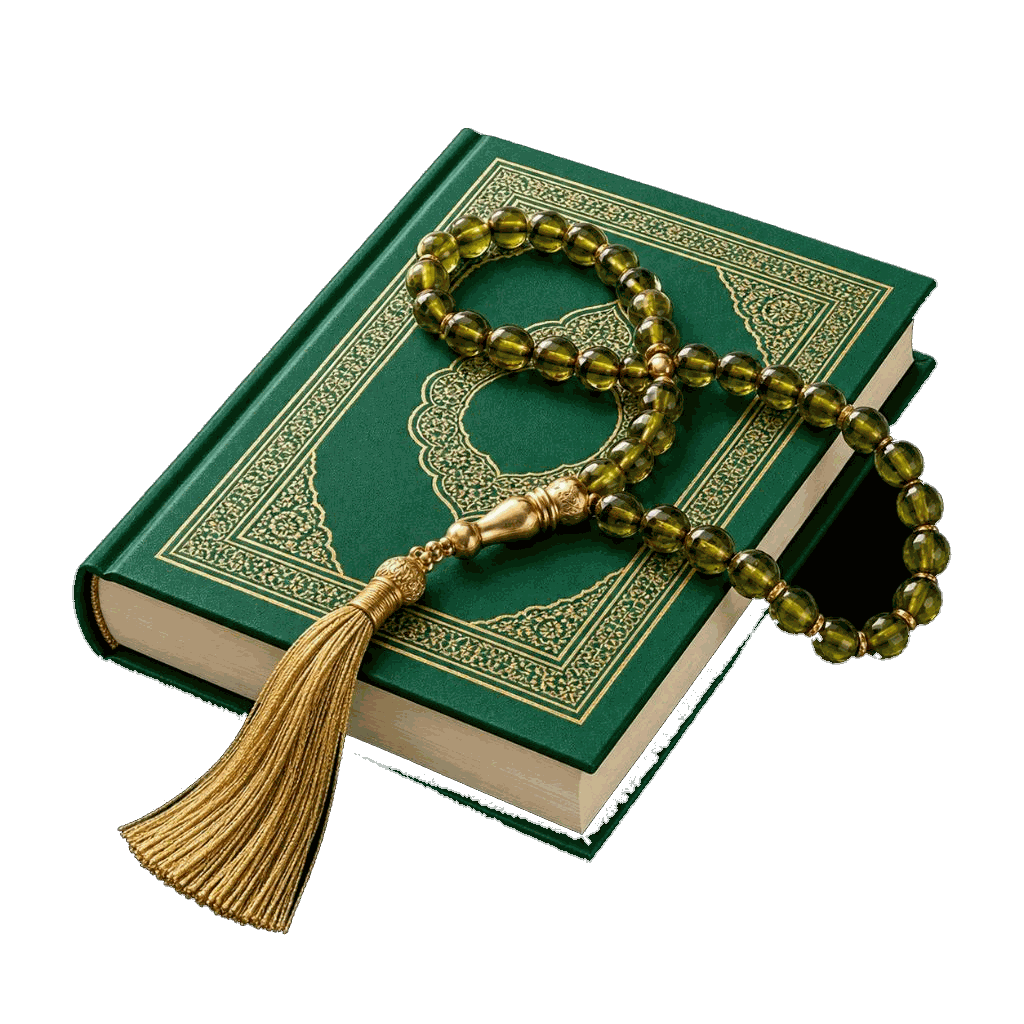
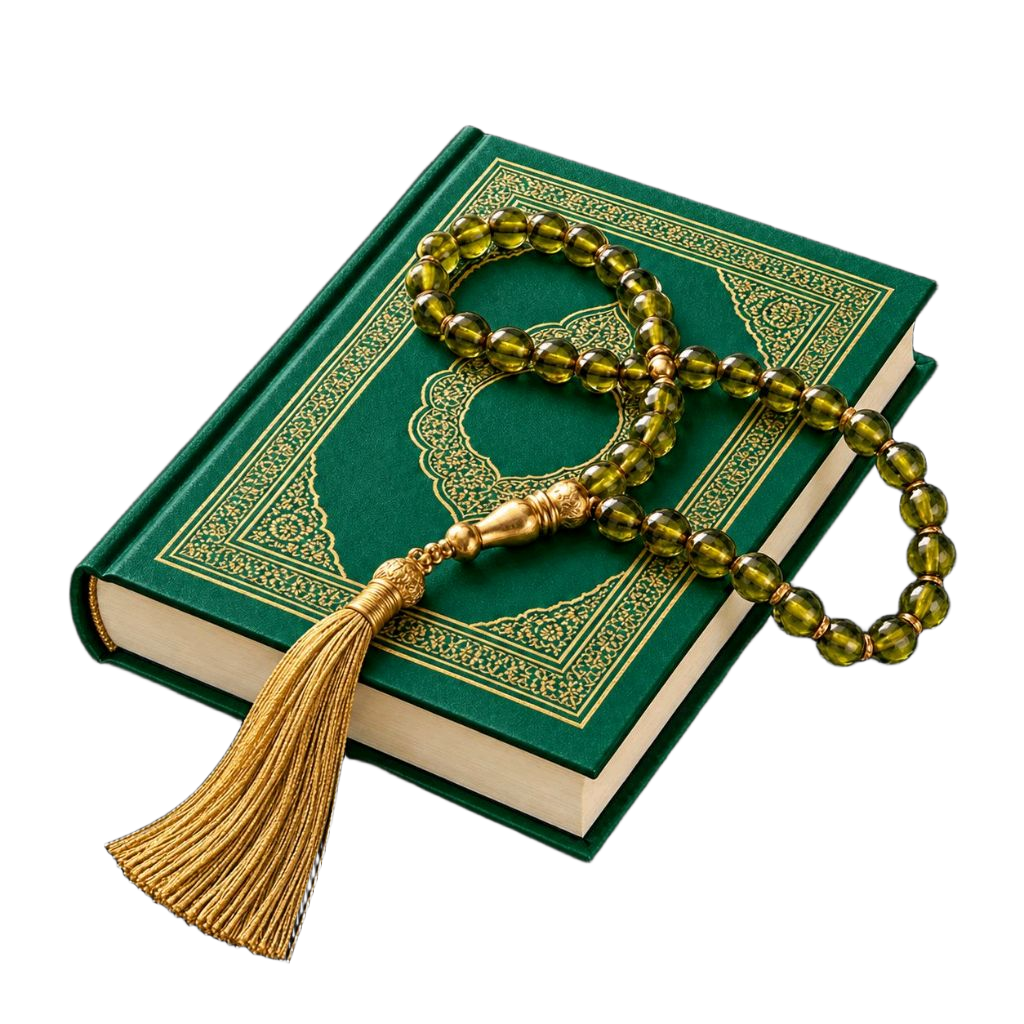
v44.0

Changed region(s): [[0.0625, 0.125, 0.9375, 0.9375]]

diff --git a/pages/quran.js b/pages/quran.js
@@ -513,7 +513,7 @@ const QuranPage = {
           <div class="surah-number"><span>${s.number}</span></div>
           <div class="surah-info">
             <div class="surah-name">${Validate.escapeHTML(QuranHelpers.surahDisplayName(s))}</div>
-            <div class="surah-meta">${Validate.escapeHTML(QuranHelpers.surahMeaning(s))} • ${s.numberOfAyahs} ${t('ayah').toLowerCase()}s • ${s.revelationType === 'Meccan' ? t('meccan') : t('medinan')}</div>
+            <div class="surah-meta">${Validate.escapeHTML(QuranHelpers.surahMeaning(s))} • ${s.numberOfAyahs} ${t('ayah').toLowerCase()}s • ${s.revelationType === 'Meccan' ? t('meccan') : t('medinan')} • ${t('surahRevelationOrder')} ${this._revelationOrder(s.number) || '—'}</div>
           </div>
           ${currentLocale !== 'ar' ? `<div class="surah-arabic-name">${cleanArName}</div>` : ''}
           ${isDown ? '<div class="surah-offline-badge"><i class="fas fa-circle-check"></i></div>' : ''}
@@ -598,6 +598,10 @@ const QuranPage = {
       });
 
       this.renderReader(container, surah);
+      // v45: historial de navegación — guarda la aleya de entrada y activa
+      // el rastreo de la aleya visible durante la lectura.
+      this._saveLastRead(surah.number, targetAyah || 1);
+      this._trackLastRead(surah);
       if (targetAyah) {
         setTimeout(() => this.scrollToAyah(targetAyah, true), 200);
       }
@@ -713,6 +717,8 @@ const QuranPage = {
               <span><i class="fas fa-${surah.revelationType === 'Meccan' ? 'kaaba' : 'mosque'}"></i> ${surah.revelationType === 'Meccan' ? t('meccan') : t('medinan')}</span>
               <span class="dot-sep">•</span>
               <span>${surah.numberOfAyahs} ${t('ayah').toLowerCase()}s</span>
+              <span class="dot-sep">•</span>
+              <span><i class="fas fa-arrow-down-wide-short"></i> ${t('surahRevelationOrder')} ${this._revelationOrder(surah.number) || '—'}</span>
             </div>
           </div>
           <div class="surah-banner-decoration">۞</div>
@@ -992,7 +998,10 @@ const QuranPage = {
     if (typeof this.clearUnifiedSearch === 'function') {
       try { this.clearUnifiedSearch(); } catch (e) {}
     }
-    if (this.currentSurah && this.currentSurah.number === surahNum) {
+    // v45 FIX: no basta con que `currentSurah` coincida en memoria (sobrevive
+    // al salir de la sura); hay que comprobar que la aleya existe en el DOM.
+    if (this.currentSurah && this.currentSurah.number === surahNum
+        && document.getElementById(`ayah-${ayahNum}`)) {
       this.scrollToAyah(ayahNum, true);
     } else {
       Router.push('surah', { surahNumber: surahNum, ayah: ayahNum });
@@ -1024,6 +1033,8 @@ const QuranPage = {
         el.classList.add('highlight');
         setTimeout(() => el.classList.remove('highlight'), 2000);
       }
+      // v45: cualquier salto explícito a una aleya cuenta como lectura
+      if (this.currentSurah) this._saveLastRead(this.currentSurah.number, ayahNumber);
     }
   },
 
@@ -1954,20 +1965,84 @@ const QuranPage = {
     }
   },
 
+  // v45: número de revelación (orden de descenso) de la sura, 1-114
+  _revelationOrder(num) {
+    const o = (typeof window !== 'undefined') && window.SURAH_REVELATION_ORDER;
+    return (o && o[num]) || null;
+  },
+
+  // ============ ÚLTIMA ALEYA LEÍDA (historial de navegación, v45) ============
+  getLastRead() {
+    const l = Storage.get('quran_last_read');
+    return (l && l.s >= 1 && l.s <= 114 && l.a >= 1) ? l : null;
+  },
+
+  _saveLastRead(surahNum, ayahNum) {
+    Storage.set('quran_last_read', { s: surahNum, a: ayahNum, t: Date.now() });
+  },
+
+  // Rastrea la aleya visible mientras el usuario se desplaza leyendo y la
+  // guarda como "última aleya leída" (con espera para no escribir en cada píxel).
+  _trackLastRead(surah) {
+    this._clearLastReadTracker();
+    const mc = document.getElementById('main-content');
+    const handler = () => {
+      if (this._lrTick) return;
+      this._lrTick = true;
+      setTimeout(() => {
+        this._lrTick = false;
+        const blocks = document.querySelectorAll('#ayahs-container .ayah-block');
+        let current = null;
+        const limit = window.innerHeight * 0.45;
+        for (const b of blocks) {
+          if (b.getBoundingClientRect().top < limit) current = b;
+          else break;
+        }
+        if (current) this._saveLastRead(surah.number, parseInt(current.dataset.ayah, 10) || 1);
+      }, 400);
+    };
+    window.addEventListener('scroll', handler, { passive: true });
+    if (mc) mc.addEventListener('scroll', handler, { passive: true });
+    this._lrHandler = handler;
+  },
+
+  _clearLastReadTracker() {
+    if (!this._lrHandler) return;
+    const mc = document.getElementById('main-content');
+    try { window.removeEventListener('scroll', this._lrHandler); } catch (e) {}
+    if (mc) { try { mc.removeEventListener('scroll', this._lrHandler); } catch (e) {} }
+    this._lrHandler = null;
+  },
+
   renderBookmarksEntry() {
     const el = document.getElementById('bookmarks-entry');
     if (!el) return;
     const bookmarks = this.getBookmarks();
+    // v45: junto a «Guardadas», tarjeta de historial con la última aleya
+    // leída; al pulsarla navega a esa aleya dentro del Corán traducido.
+    const last = this.getLastRead();
+    const lastName = last ? this._surahNameByNumber(last.s) : '';
+    const chevron = `fa-chevron-${currentLocale === 'ar' ? 'left' : 'right'}`;
     el.innerHTML = `
-      <button class="bookmarks-entry-card" onclick="QuranPage.openBookmarks()">
-        <span class="bookmarks-entry-icon"><i class="fas fa-bookmark"></i></span>
-        <span class="bookmarks-entry-text">
-          <span class="bookmarks-entry-title">${t('bookmarksTitle')}</span>
-          <span class="bookmarks-entry-sub">${bookmarks.length}/${this.MAX_BOOKMARKS}</span>
-        </span>
-        ${bookmarks.length ? `<span class="bookmarks-entry-dots">${bookmarks.map(b => `<span class="bookmark-color-dot" style="background:${this.BOOKMARK_COLORS[b.c]};"></span>`).join('')}</span>` : ''}
-        <i class="fas fa-chevron-${currentLocale === 'ar' ? 'left' : 'right'}"></i>
-      </button>
+      <div class="quran-quick-entries">
+        <button class="bookmarks-entry-card" onclick="QuranPage.openBookmarks()">
+          <span class="bookmarks-entry-icon"><i class="fas fa-bookmark"></i></span>
+          <span class="bookmarks-entry-text">
+            <span class="bookmarks-entry-title">${t('bookmarksTitle')}</span>
+            <span class="bookmarks-entry-sub">${bookmarks.length}/${this.MAX_BOOKMARKS}</span>
+          </span>
+          ${bookmarks.length ? `<span class="bookmarks-entry-dots">${bookmarks.map(b => `<span class="bookmark-color-dot" style="background:${this.BOOKMARK_COLORS[b.c]};"></span>`).join('')}</span>` : ''}
+          <i class="fas ${chevron}"></i>
+        </button>
+        <button class="bookmarks-entry-card last-read-card" ${last ? `onclick="QuranPage.goToBookmark(${last.s}, ${last.a})"` : 'disabled'}>
+          <span class="bookmarks-entry-icon"><i class="fas fa-clock-rotate-left"></i></span>
+          <span class="bookmarks-entry-text">
+            <span class="bookmarks-entry-title">${t('lastReadTitle')}</span>
+            <span class="bookmarks-entry-sub">${last ? `${last.s}. ${Validate.escapeHTML(lastName)} · ${t('ayah')} ${last.a}` : t('lastReadEmpty')}</span>
+          </span>
+          <i class="fas ${chevron}"></i>
+        </button>
+      </div>
     `;
   },
 
@@ -2008,8 +2083,15 @@ const QuranPage = {
 
   goToBookmark(surahNum, ayahNum) {
     closeModal();
-    if (this.currentSurah && this.currentSurah.number === surahNum) {
-      // Misma sura ya abierta: scroll directo con resaltado
+    // v45 FIX: antes bastaba con que `currentSurah` coincidiera EN MEMORIA —
+    // pero ese valor sobrevive al volver a la lista, así que al pulsar un
+    // marcador guardado desde la pantalla principal del Corán se llamaba a
+    // scrollToAyah sobre un DOM que ya no existe y NO pasaba nada (el fallo
+    // reportado). Ahora solo se hace scroll directo si la aleya está de
+    // verdad renderizada; en caso contrario se navega a la sura con la aleya.
+    if (this.currentSurah && this.currentSurah.number === surahNum
+        && document.getElementById(`ayah-${ayahNum}`)) {
+      // Misma sura ya abierta Y visible: scroll directo con resaltado
       this.scrollToAyah(ayahNum, true);
     } else {
       Router.push('surah', { surahNumber: surahNum, ayah: ayahNum });
@@ -2069,6 +2151,8 @@ const QuranPage = {
     const player = document.getElementById('audio-player');
     if (player) { player.pause(); player.src = ''; }
     this.playingAyah = null;
+    // v45: soltar el rastreador de "última aleya leída" al salir del Corán
+    this._clearLastReadTracker();
     // v43: إزالة سحب التنقل بين السور عند مغادرة صفحة القرآن — قبل ذلك كان
     // المعالج يبقى معلّقاً على #main-content، فأي سحب في الصفحات الأخرى كان
     // يفتح القرآن ويقلب السور. الآن يعمل فقط والقرآن مفتوح.

diff --git a/js/i18n.js b/js/i18n.js
@@ -131,6 +131,9 @@ const I18N = {
     bookmarkLimit: 'Máximo 5 aleyas guardadas',
     noBookmarks: 'Aún no tienes aleyas guardadas',
     bookmarkGo: 'Ir a la aleya',
+    lastReadTitle: 'Última aleya leída',
+    lastReadEmpty: 'Aún no has leído ninguna',
+    surahRevelationOrder: 'N.º de revelación',
     share: 'Compartir',
     settings_reader: 'Ajustes de lectura',
     readingDuasTitle: "Du'as de lectura del Corán",
@@ -625,6 +628,9 @@ const I18N = {
     bookmarkLimit: 'الحد الأقصى ٥ آيات محفوظة',
     noBookmarks: 'لا توجد آيات محفوظة بعد',
     bookmarkGo: 'الانتقال إلى الآية',
+    lastReadTitle: 'آخر آية قرأتها',
+    lastReadEmpty: 'لم تقرأ أي آية بعد',
+    surahRevelationOrder: 'ترتيب النزول',
     share: 'مشاركة',
     settings_reader: 'إعدادات القراءة',
     readingDuasTitle: 'أدعية قراءة القرآن',
@@ -1139,6 +1145,9 @@ const I18N = {
     bookmarkLimit: 'Maximum 5 saved ayahs',
     noBookmarks: 'No saved ayahs yet',
     bookmarkGo: 'Go to ayah',
+    lastReadTitle: 'Last read ayah',
+    lastReadEmpty: 'Nothing read yet',
+    surahRevelationOrder: 'Revelation order',
     share: 'Share',
     settings_reader: 'Reader settings',
     verses: 'Verses',
@@ -1369,6 +1378,9 @@ const I18N = {
     bookmarkLimit: 'Maximum 5 saved ayahs',
     noBookmarks: 'No saved ayahs yet',
     bookmarkGo: 'Go to ayah',
+    lastReadTitle: 'Last read ayah',
+    lastReadEmpty: 'Nothing read yet',
+    surahRevelationOrder: 'Revelation order',
     bookmarked: 'Saved',
     wisdomHubInfo: 'Earn XP in any module, level up, and unlock achievements.',
   

diff --git a/data/surah_revelation_order.js b/data/surah_revelation_order.js
@@ -1,0 +1,20 @@
+// 📜 Orden de revelación de las 114 azoras (ترتيب نزول السور)
+// El índice del array es el número de la azora (1-114); el valor es su
+// número en el orden de revelación (número de revelación).
+// Orden clásico según la cronología tradicional (Ibn Abbas / Al-Azhar).
+const SURAHS_BY_REVELATION = [
+  96, 68, 73, 74, 1, 111, 81, 87, 92, 89, 93, 94, 103, 100, 108,
+  102, 107, 109, 105, 113, 114, 112, 53, 80, 97, 91, 85, 95, 106,
+  101, 75, 104, 77, 50, 90, 86, 54, 38, 7, 72, 36, 25, 35, 19, 20,
+  56, 26, 27, 28, 17, 10, 11, 12, 15, 6, 37, 31, 34, 39, 40, 41,
+  42, 43, 44, 45, 46, 51, 88, 18, 16, 71, 14, 21, 23, 32, 52, 67,
+  69, 70, 78, 79, 82, 84, 30, 29, 83, 2, 8, 3, 33, 60, 4, 99, 57,
+  47, 13, 55, 76, 65, 98, 59, 24, 22, 63, 58, 49, 66, 64, 61, 62,
+  48, 5, 9, 110,
+];
+
+// revelationOrderOf(surahNumber) -> 1..114 (número de revelación)
+window.SURAH_REVELATION_ORDER = SURAHS_BY_REVELATION.reduce((acc, surahNum, idx) => {
+  acc[surahNum] = idx + 1;
+  return acc;
+}, {});

diff --git a/css/quran-reader.css b/css/quran-reader.css
@@ -683,3 +683,9 @@
 .font-medium .ayah-end-marker-lg { font-size: 1.5em !important; }
 .font-large .ayah-end-marker-lg { font-size: 1.65em !important; }
 .font-xlarge .ayah-end-marker-lg { font-size: 1.8em !important; }
+
+/* v45: بطاقتان جنبًا إلى جنب (المحفوظات + آخر آية مقروءة) في صفحة القرآن الرئيسية */
+.quran-quick-entries{display:flex;gap:10px;align-items:stretch;}
+.quran-quick-entries .bookmarks-entry-card{flex:1;min-width:0;}
+.bookmarks-entry-card:disabled{opacity:.55;cursor:default;}
+.last-read-card .bookmarks-entry-icon{color:#8B5CF6;}

diff --git a/index.html b/index.html
@@ -174,6 +174,7 @@
   <!-- v28: índice de texto completo del Corán + buscador inteligente de aleyas (sin tashkeel) -->
   <!-- 📕 المصحف كاملًا بالعربية (٦٠٤ صفحات، أوفلاين داخل ملفات التطبيق) -->
   <script src="data/quran_full_ar.js"></script>
+  <script src="data/surah_revelation_order.js"></script> <!-- v45: orden de revelación de las 114 suras -->
   <script src="data/mushaf_divisions.js"></script>
   <script src="data/quran_search_index.js"></script>
   <script src="data/quran_transliteration.js"></script>
